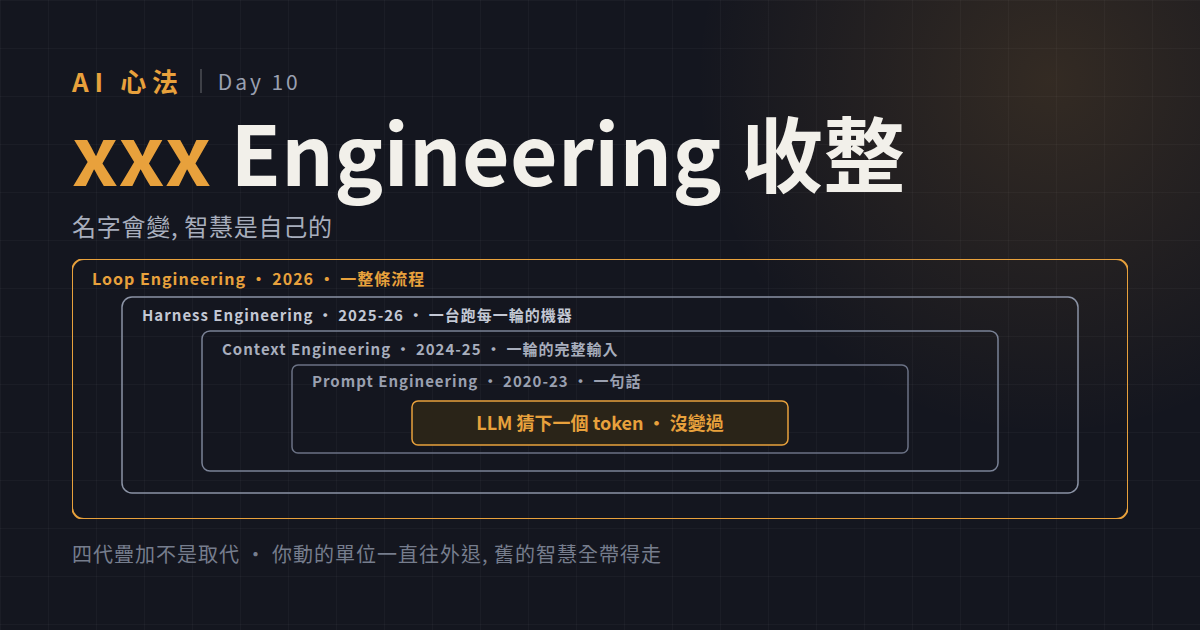
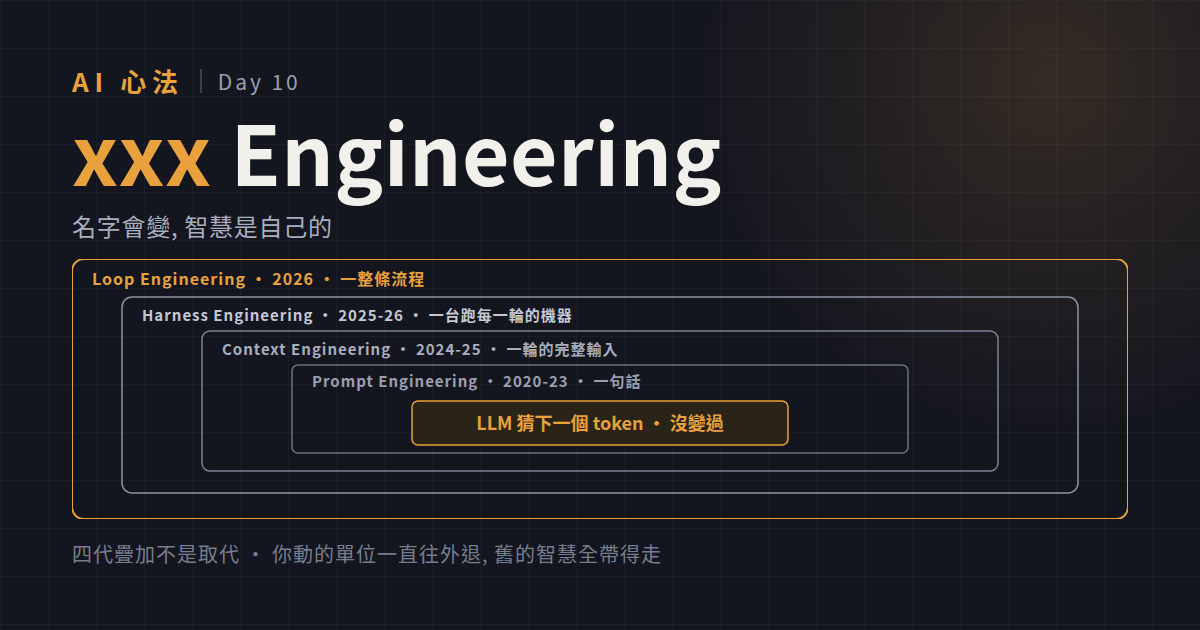
Day 10 cover: 標題拿掉「收整」, 只留 xxx Engineering

Changed region(s): [[0.6167, 0.181, 0.7708, 0.3317]]

diff --git a/05-notes/ironman/assets/cover-day10.html b/05-notes/ironman/assets/cover-day10.html
@@ -23,7 +23,7 @@ text{font-family:"Noto Sans CJK TC",sans-serif}
 <div class="wrap">
   <div class="top"><span class="mark">AI 心法</span><span class="bar"></span><span class="day">Day 10</span></div>
   <div>
-    <h1><em>xxx</em> Engineering 收整</h1>
+    <h1><em>xxx</em> Engineering</h1>
     <div class="sub">名字會變, 智慧是自己的</div>
   </div>
   <div class="chartwrap">
